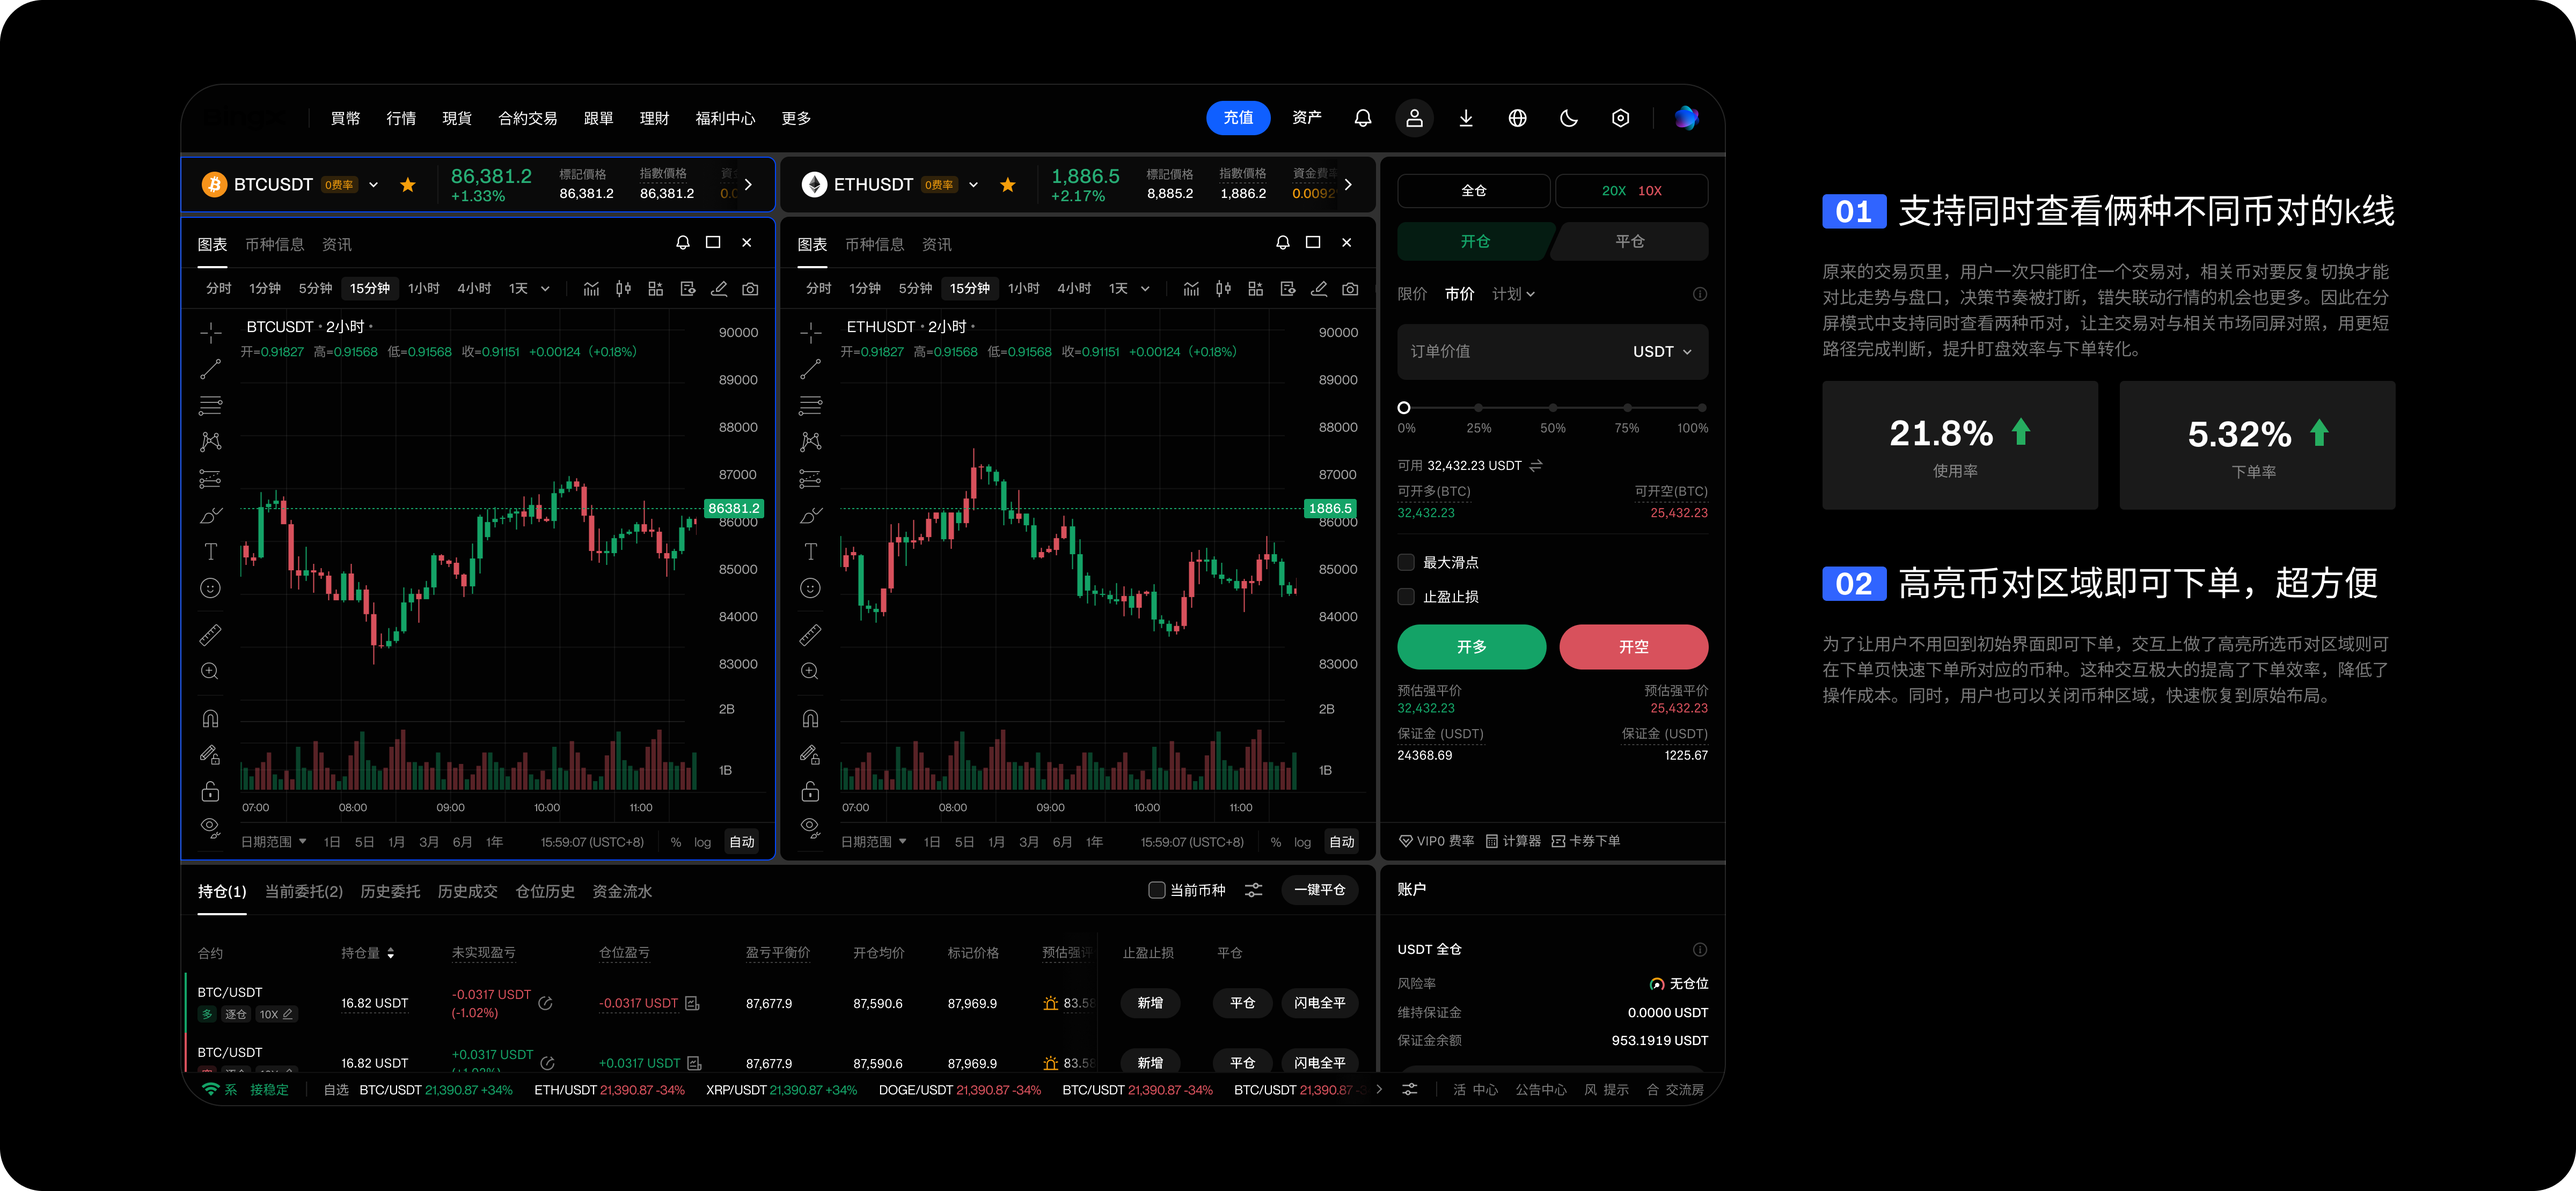
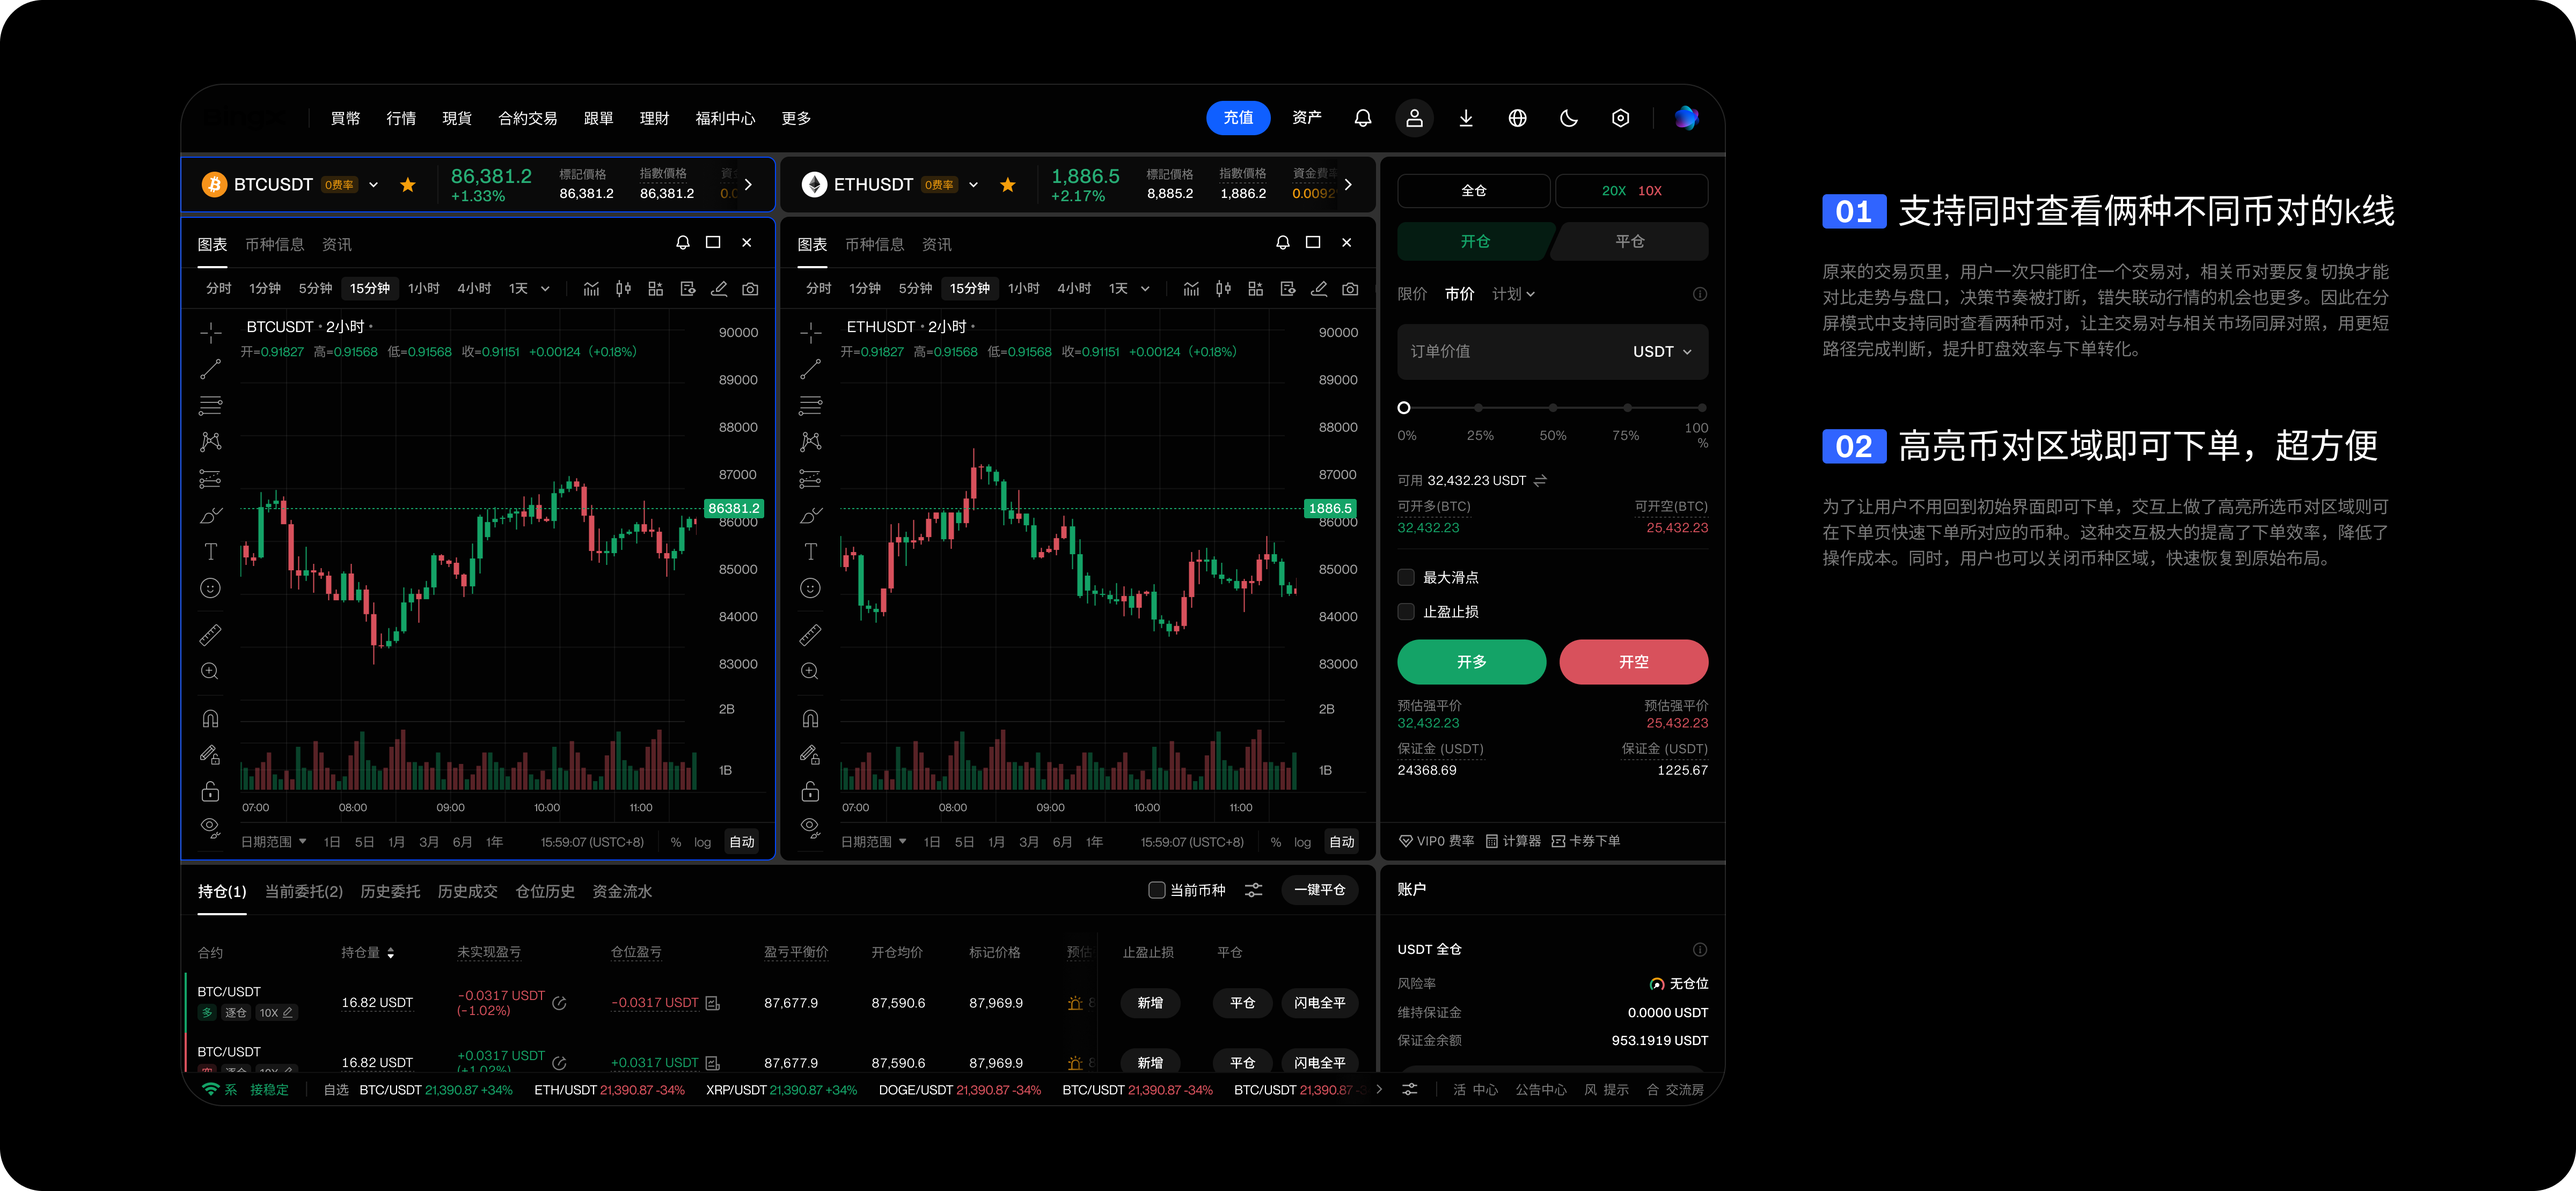
Update web-trade copy and split-compare asset.
Keep production in sync with the latest case edits.

diff --git a/src/content/articles/web-trade.md b/src/content/articles/web-trade.md
@@ -145,7 +145,7 @@ K 线图表、订单簿、最新成交、资金费率等 — 看更多、更准
 
 ## 02 · 持仓列表重构
 
-对列表区进行视觉降噪，注册信息强化对比：仓位关键字段列和快捷操作区隔明确，方便快速比对与决策平仓或加仓。
+对列表区进行视觉降噪，主次信息强化对比：仓位关键字段列和快捷操作区隔明确，方便快速比对与决策平仓或加仓。
 
 [[img:positions]]
 
